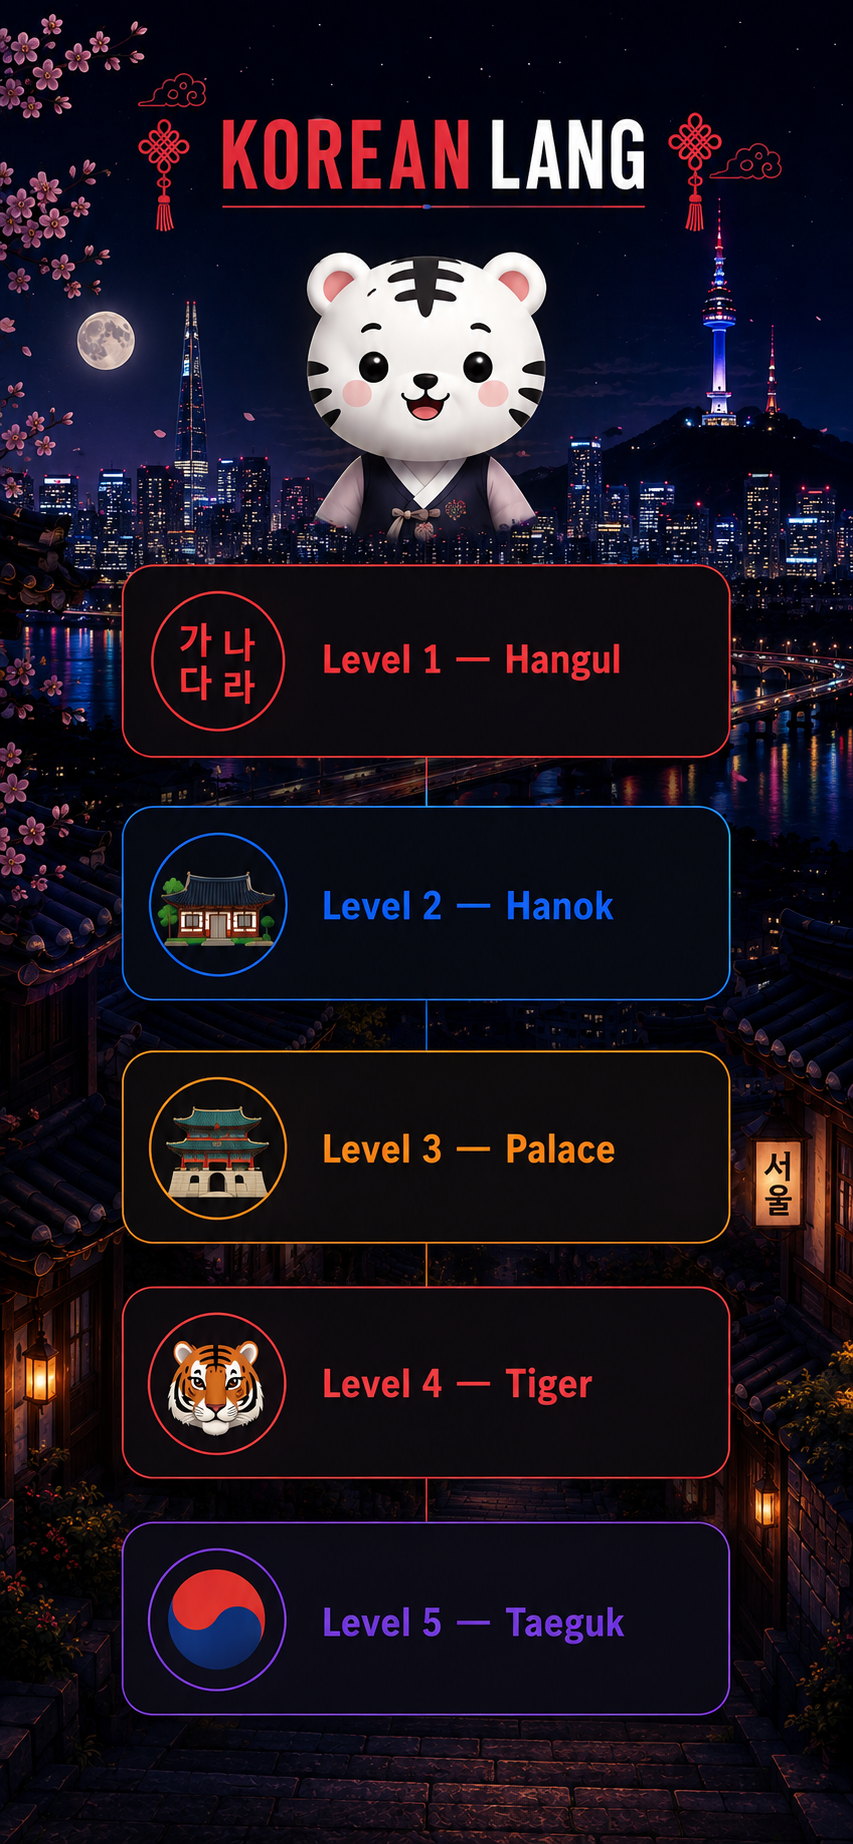
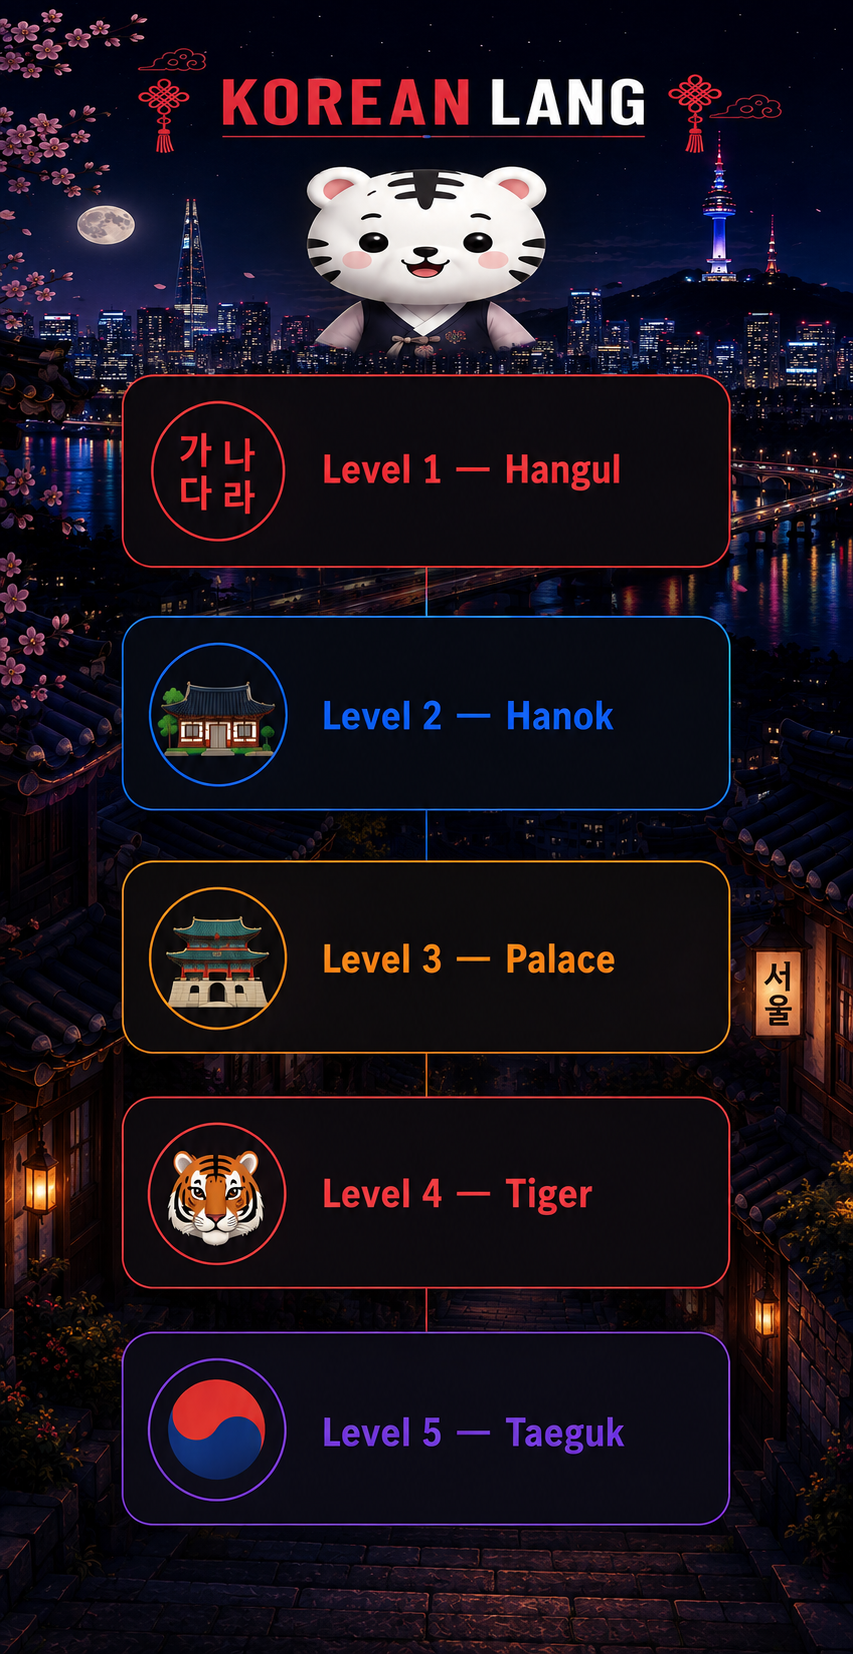
Compress home hero art so Level 5 fits on real device viewports
Real-device screenshot showed Level 5 fully cut off below the nav bar
— the art's aspect ratio (853×1844, 1:2.16) was taller than a real
phone's visible content area (~1:1.94 once status bar/home indicator
are accounted for), so object-fit:cover was cropping the excess off
the bottom.

Compressed the header band (title + mascot + empty sky, y 0-560) down
to 370px height via PIL, leaving the 5 card region untouched. New
image is 853×1654 (1:1.94), matching real device proportions almost
exactly. Title and mascot now sit higher/tighter as requested, and
Level 5 is fully visible with room to spare even on a ~756px-tall
Safari viewport (was fully hidden before). Recomputed the card-center
and streak/XP-bubble Y-percentages in renderHomeRoad() to match the
new image's proportions.

diff --git a/app.js b/app.js
@@ -644,12 +644,14 @@ function renderHomeRoad(){
     return;
   }
   _homeRtTries=0;
-  // Card Y-centres as % of the generated art's NATURAL height (home-bg1.png, 853×1844),
-  // measured directly off the source image's card borders. Converted to on-screen % via
-  // toY() below to correct for object-fit:cover cropping on viewports whose aspect ratio
-  // differs from the art's — a raw % mismatch here is what makes locks land between cards.
-  var centers=[35.9,48.5,61.8,74.3,86.5];
-  var statY=19.3;
+  // Card Y-centres as % of the generated art's NATURAL height (home-bg1.png, 853×1654 —
+  // the header band was compressed to bring the art's aspect ratio close to a real phone's
+  // content-area aspect ratio, so Level 5 doesn't get cropped off by object-fit:cover on
+  // device viewports shorter than a full 844px), measured directly off the source image's
+  // card borders. Still converted through toY() below since aspect ratios never match
+  // exactly — a raw % mismatch here is what makes locks land between cards instead of on them.
+  var centers=[28.57,42.62,57.44,71.34,84.95];
+  var statY=14.18;
   var cW=el.clientWidth, cH=el.clientHeight, nW=img.naturalWidth, nH=img.naturalHeight;
   var scale=Math.max(cW/nW, cH/nH);
   function toY(p){ return (p/100)*nH*scale/cH*100; }
